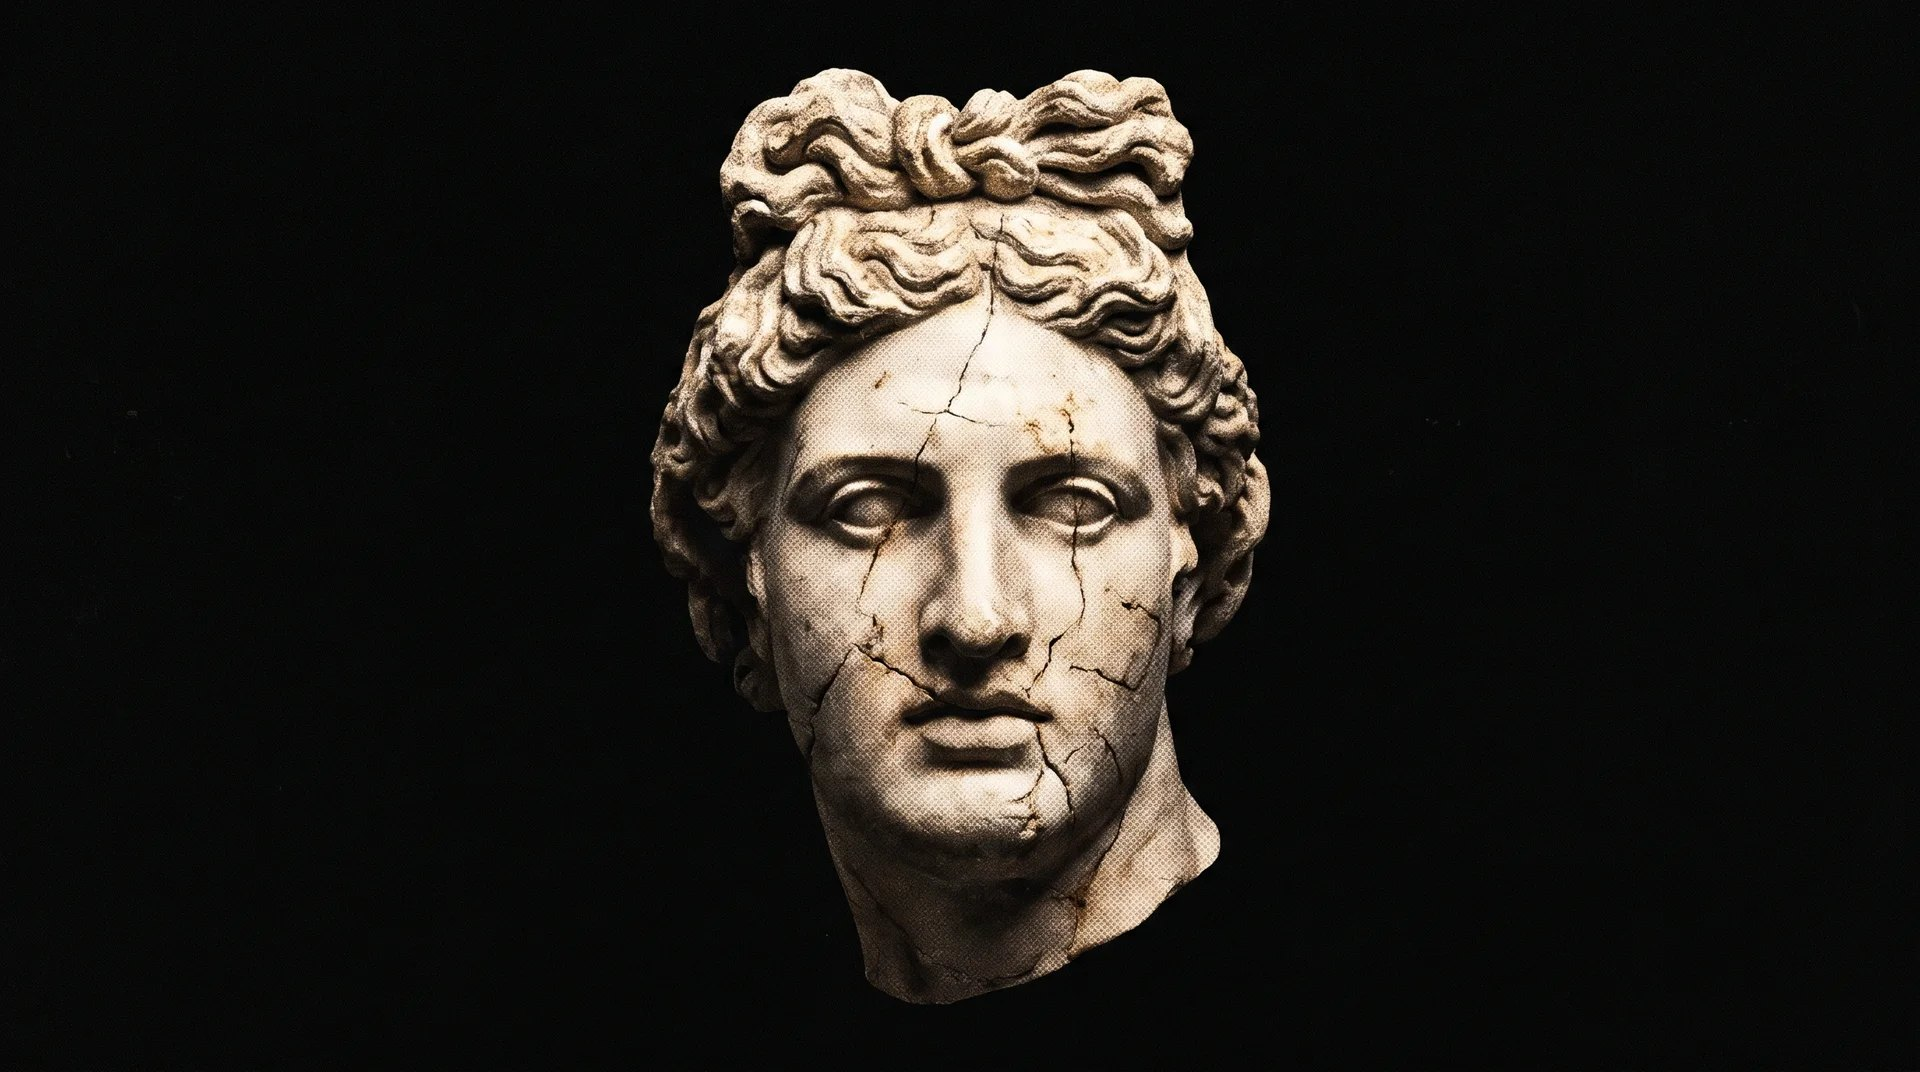
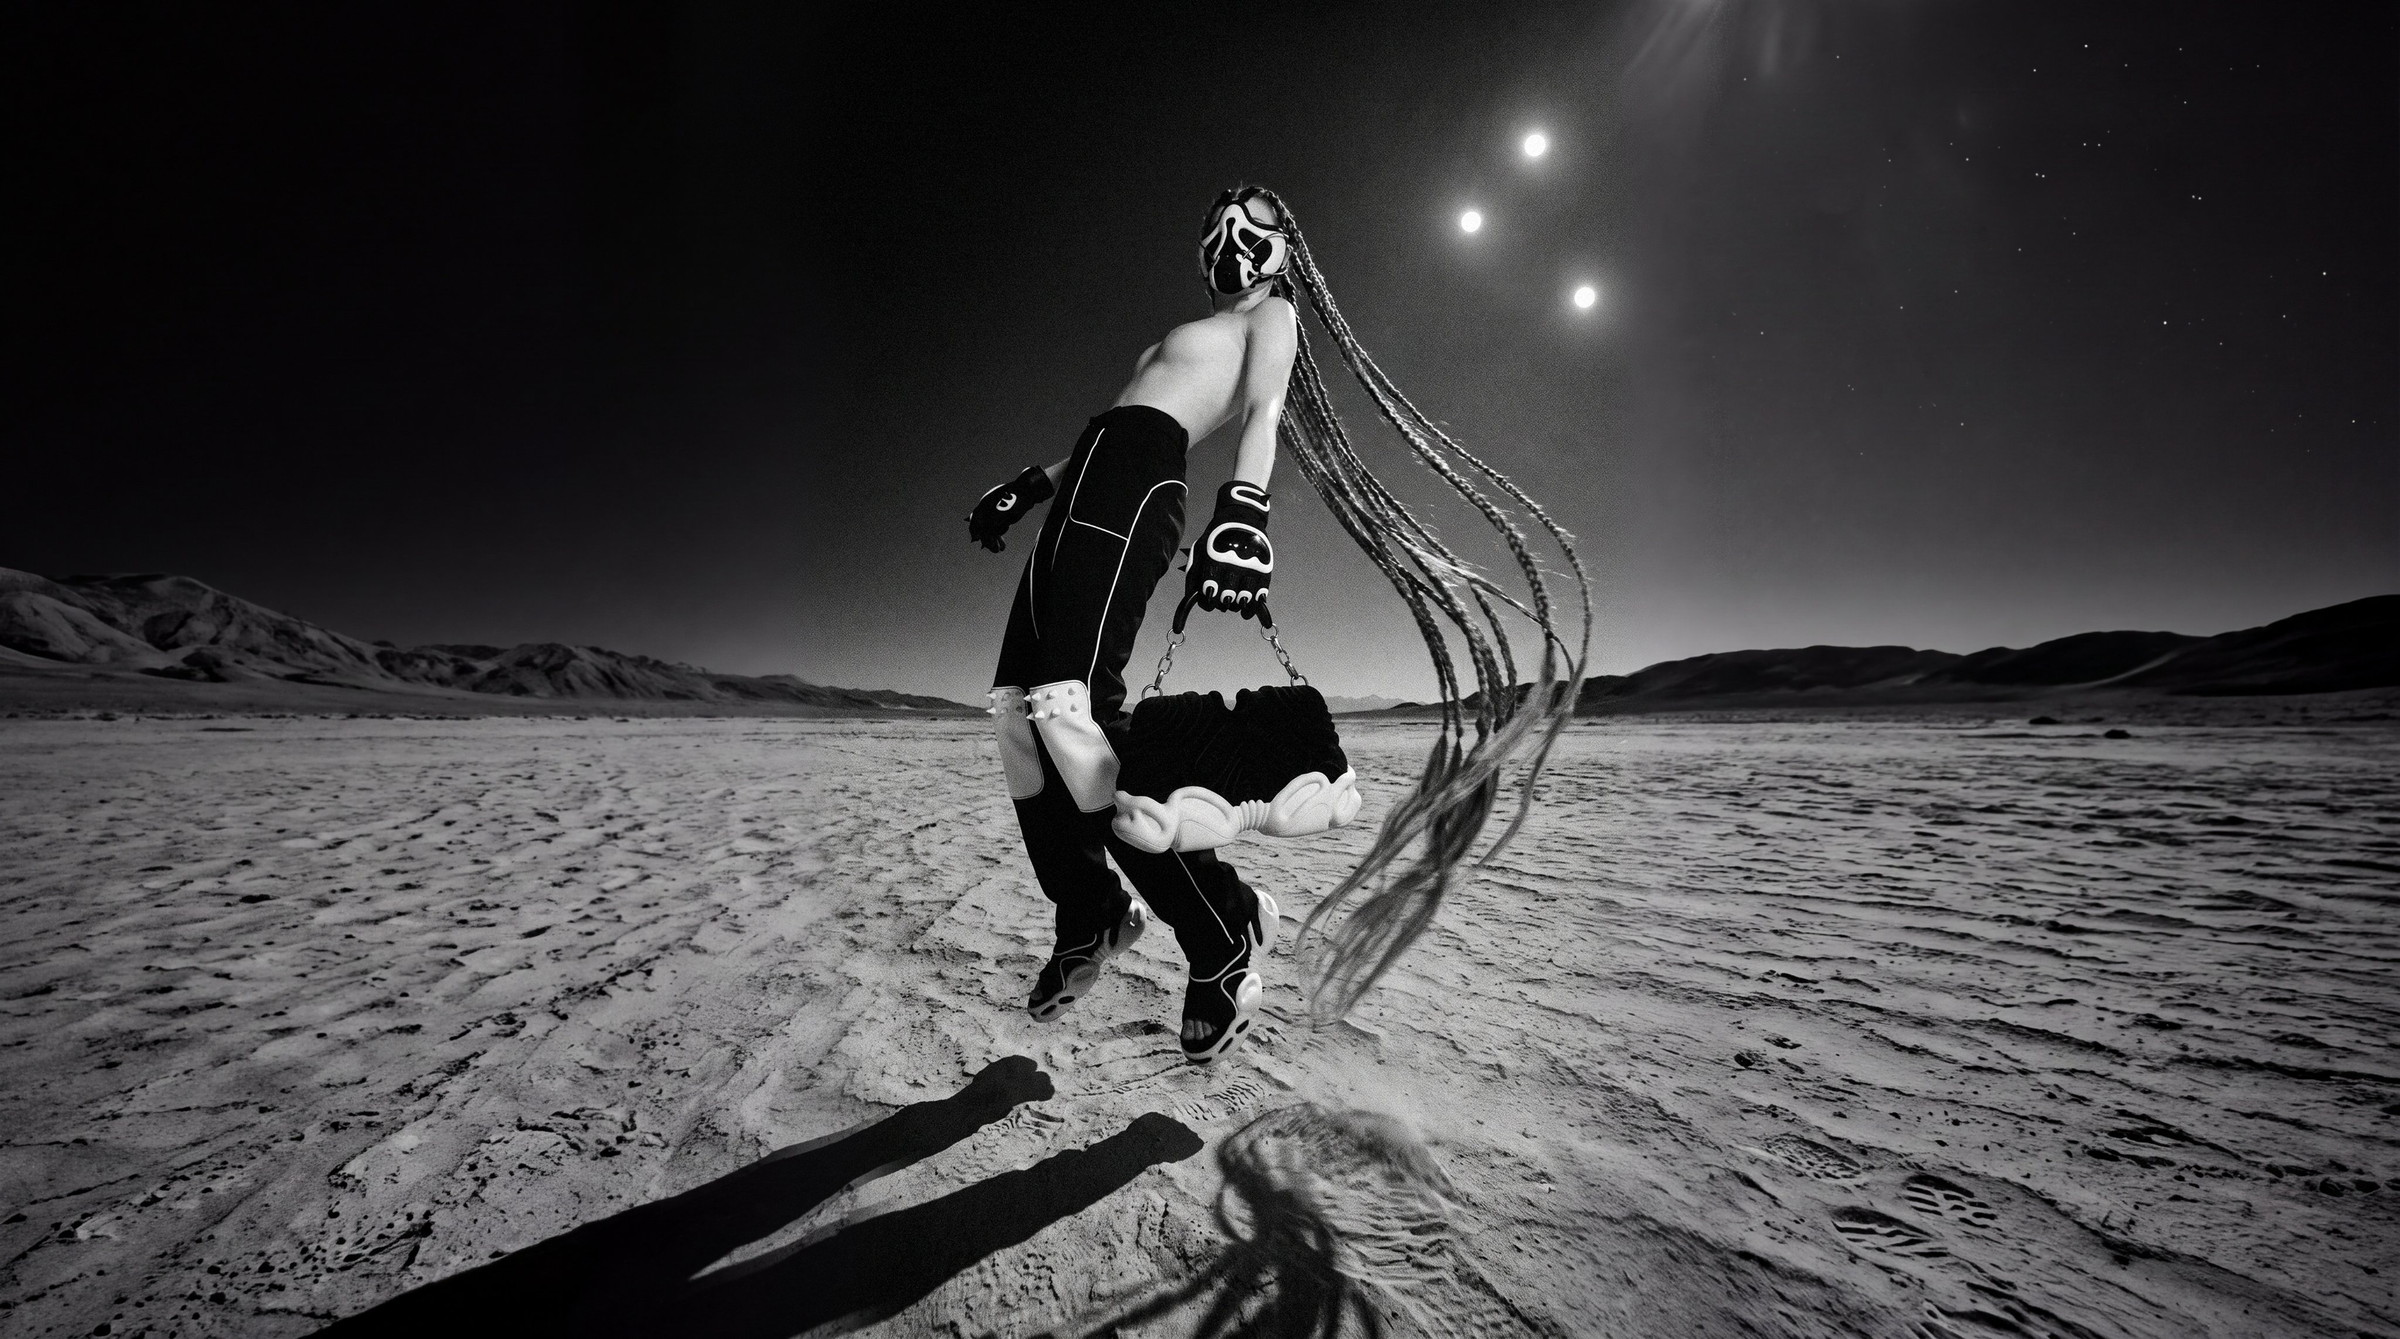
Nové projekty a doplnění galerií.
Bistro Za vodou, Pizza Speed a Antik Galerie Nostalgie. Doplněné fotky u edengarden*, Green Vision a Baru Ponorka. Nové pozadí hero.

diff --git a/src/data/projects.ts b/src/data/projects.ts
@@ -5,6 +5,8 @@ export type ProjectTone = "ph-01" | "ph-02" | "ph-03" | "ph-04" | "ph-05" | "ph-
 export type ProjectShot = {
   src: string;
   alt: string;
+  wide?: boolean;
+  center?: boolean;
 };
 
 export type Project = {
@@ -43,7 +45,12 @@ export const projects: Project[] = [
     tone: "ph-05",
     image: "/images/projects/ponorka.jpg",
     url: "https://www.barponorka.cz",
-    gallery: [],
+    gallery: [
+      { src: "/images/projects/ponorka/rockabilly-9.jpg", alt: "Plakát Rockabilly Fever vol. 9" },
+      { src: "/images/projects/ponorka/rockabilly-8.jpg", alt: "Plakát Rockabilly Fever vol. 8" },
+      { src: "/images/projects/ponorka/web.jpg", alt: "Web Bar Ponorka" },
+      { src: "/images/projects/ponorka/menu.jpg", alt: "Nápojový lístek na webu" },
+    ],
   },
   {
     slug: "kovovyroba-hrdlicka",
@@ -148,14 +155,18 @@ export const projects: Project[] = [
     body: [
       "Green Vision potřeboval sjednotit značku a web. Zadání: čitelný systém, který unese další výstupy.",
       "Identita je úzká — písmo, paleta, rytmus sazby. Web z ní vychází přímo, bez druhé vizuální vrstvy.",
-      "Výstupem je značka, základní tiskoviny a prezentační web.",
+      "Výstupem je značka, web, textil a venkovní banner.",
     ],
-    outputs: ["Identita", "Web", "Tisk"],
+    outputs: ["Identita", "Web", "Textil"],
     featured: true,
     tone: "ph-06",
     image: "/images/projects/green-vision-mark.jpg",
     url: "https://www.greenvision.cz",
-    gallery: [],
+    gallery: [
+      { src: "/images/projects/green-vision/merch.jpg", alt: "Textil Green Vision" },
+      { src: "/images/projects/green-vision/banner.jpg", alt: "Street banner Green Vision" },
+      { src: "/images/projects/green-vision/triko.jpg", alt: "Triko a čepice Green Vision" },
+    ],
   },
   {
     slug: "glide-edge",
@@ -184,13 +195,13 @@ export const projects: Project[] = [
     location: "Česko",
     year: "2026",
     category: "Obal",
-    excerpt: "Obal a produktové vizuály. Raspberry fusion, Blueberry fusion, Orange dreams.",
+    excerpt: "Obal, produktové vizuály a web.",
     body: [
-      "edengarden* potřeboval obal a klíčové vizuály pro Raspberry fusion, Blueberry fusion a Orange dreams.",
+      "edengarden* potřeboval obal, produktové vizuály a web.",
       "Sáček nese značku, název a obsah. Každá příchuť má vlastní barvu kouře a ovoce.",
-      "Výstupem je obal a produktová fotografie.",
+      "Stejný jazyk pokračuje na webu a na stojáncích v prodejně.",
     ],
-    outputs: ["Obal", "Produktový vizuál"],
+    outputs: ["Obal", "Web", "Produktový vizuál"],
     featured: false,
     tone: "ph-04",
     image: "/images/projects/edengarden/raspberry-fusion.jpg",
@@ -198,6 +209,102 @@ export const projects: Project[] = [
       { src: "/images/projects/edengarden/raspberry-fusion.jpg", alt: "edengarden* Raspberry fusion" },
       { src: "/images/projects/edengarden/blueberry-fusion.jpg", alt: "edengarden* Blueberry fusion" },
       { src: "/images/projects/edengarden/orange-dreams.jpg", alt: "edengarden* Orange dreams" },
+      { src: "/images/projects/edengarden/web-1.jpg", alt: "Web edengarden*" },
+      { src: "/images/projects/edengarden/web-2.jpg", alt: "Eshop edengarden*" },
+      { src: "/images/projects/edengarden/lollipop-kush.jpg", alt: "Stojánek Lollipop kush" },
+      { src: "/images/projects/edengarden/gorilla-glue.jpg", alt: "Stojánek Gorilla glue" },
+      { src: "/images/projects/edengarden/stojan-blueberry.jpg", alt: "Stojánek Blueberry fusion" },
+      { src: "/images/projects/edengarden/emerald-kush.jpg", alt: "Stojánek Emerald kush" },
+    ],
+  },
+  {
+    slug: "bistro-za-vodou",
+    title: "Bistro Za vodou",
+    client: "Bistro Za vodou",
+    location: "Česko",
+    year: "2024",
+    category: "Identita",
+    excerpt: "Značka bistra. Menu, textil a venkovní nosiče.",
+    body: [
+      "Bistro Za vodou potřebovalo značku, která drží pohromadě na menu, textilu i venku.",
+      "Značka je černobílá: slunce, hladina, hora. Nápojové lístky nesou barvu, jídelní lístek zůstává černý.",
+      "Výstupem je logo, menu, textil, samolepky a venkovní nosiče.",
+    ],
+    outputs: ["Identita", "Menu", "Tisk"],
+    featured: false,
+    tone: "ph-01",
+    image: "/images/projects/bistro-za-vodou/znacka.jpg",
+    gallery: [
+      {
+        src: "/images/projects/bistro-za-vodou/menu.jpg",
+        alt: "Jídelní a nápojový lístek Bistro Za vodou",
+        wide: true,
+      },
+      { src: "/images/projects/bistro-za-vodou/cocktaily.jpg", alt: "Lístek koktejlů" },
+      { src: "/images/projects/bistro-za-vodou/limonady.jpg", alt: "Lístek limonád" },
+      { src: "/images/projects/bistro-za-vodou/triko.jpg", alt: "Triko Bistro Za vodou" },
+      { src: "/images/projects/bistro-za-vodou/lehatko.jpg", alt: "Lehátko se značkou" },
+      { src: "/images/projects/bistro-za-vodou/podtacky.jpg", alt: "Podtácky Bistro Za vodou" },
+      { src: "/images/projects/bistro-za-vodou/samolepky.jpg", alt: "Samolepky s QR kódem" },
+      { src: "/images/projects/bistro-za-vodou/provozni-doba.jpg", alt: "Cedule provozní doby" },
+      { src: "/images/projects/bistro-za-vodou/vlajka.jpg", alt: "Beach vlajka Bistro Za vodou" },
+    ],
+  },
+  {
+    slug: "pizza-speed",
+    title: "Pizza Speed",
+    client: "Pizza Speed",
+    location: "Jablonec nad Nisou",
+    year: "2025",
+    category: "Identita",
+    excerpt: "Značka pizzerie. Poutač, leták, cedule a web.",
+    body: [
+      "Pizza Speed potřebovala značku pro provoz i pro web.",
+      "Systém je černý s oranžovou. Stejný jazyk drží poutač, leták, banner, cedule i dárkové poukazy.",
+      "Web z něj vychází přímo.",
+    ],
+    outputs: ["Identita", "Web", "Tisk"],
+    featured: false,
+    tone: "ph-05",
+    image: "/images/projects/pizza-speed/poutac.jpg",
+    url: "https://pizza-speed.vercel.app",
+    gallery: [
+      { src: "/images/projects/pizza-speed/poutac.jpg", alt: "Poutač Pizza Speed" },
+      { src: "/images/projects/pizza-speed/poukazy.jpg", alt: "Dárkové poukazy Pizza Speed" },
+      { src: "/images/projects/pizza-speed/terasa.jpg", alt: "Cedule terasy Pizza Speed" },
+      { src: "/images/projects/pizza-speed/pivo.jpg", alt: "Cedule piva na čepu" },
+      {
+        src: "/images/projects/pizza-speed/banner.jpg",
+        alt: "Banner Pizza Speed",
+        wide: true,
+      },
+      {
+        src: "/images/projects/pizza-speed/letak.jpg",
+        alt: "Leták na rozvoz Pizza Speed",
+        center: true,
+      },
+    ],
+  },
+  {
+    slug: "nostalgie",
+    title: "Antik Galerie Nostalgie",
+    client: "Antik Galerie Nostalgie",
+    location: "Jablonec nad Nisou",
+    year: "2026",
+    category: "Identita",
+    excerpt: "Identita antik galerie. Logo a vizitka.",
+    body: [
+      "Antik Galerie Nostalgie sídlí na Mírovém náměstí v Jablonci nad Nisou.",
+      "Značka drží bordó pole, kreslené písmo a výřez z obrazu.",
+      "Výstupem je logo a vizitka.",
+    ],
+    outputs: ["Identita", "Tisk"],
+    featured: false,
+    tone: "ph-02",
+    image: "/images/projects/nostalgie/vizitky.jpg",
+    url: "https://www.nostalgieantikgalerie.cz",
+    gallery: [
+      { src: "/images/projects/nostalgie/vizitky.jpg", alt: "Vizitky Antik Galerie Nostalgie" },
     ],
   },
 ];

diff --git a/src/routes/prace/$slug.tsx b/src/routes/prace/$slug.tsx
@@ -48,7 +48,7 @@ function ProjectPage() {
           </h1>
         </header>
 
-        {project.slug === "edengarden" ? null : (
+        {project.slug === "edengarden" || project.slug === "pizza-speed" || project.slug === "nostalgie" ? null : (
         <div className="page-grid">
           <figure className="img-frame overflow-hidden bg-bg-elevated">
             <img
@@ -115,11 +115,39 @@ function ProjectPage() {
         </section>
 
         {project.gallery.length > 0 ? (
+          project.slug === "edengarden" ? (
+            <>
+              <section className="page-grid project-gallery is-flavors">
+                {project.gallery.slice(0, 3).map((shot) => (
+                  <img
+                    key={shot.src}
+                    src={shot.src}
+                    alt={shot.alt}
+                    loading="lazy"
+                    decoding="async"
+                  />
+                ))}
+              </section>
+              <section className="page-grid project-gallery">
+                {project.gallery.slice(3).map((shot) => (
+                  <img
+                    key={shot.src}
+                    src={shot.src}
+                    alt={shot.alt}
+                    loading="lazy"
+                    decoding="async"
+                  />
+                ))}
+              </section>
+            </>
+          ) : (
           <section
             className={
-              project.slug === "edengarden"
-                ? "page-grid project-gallery is-flavors"
-                : "page-grid project-gallery"
+              project.slug === "bistro-za-vodou"
+                ? "page-grid project-gallery is-uniform"
+                : project.slug === "green-vision"
+                  ? "page-grid project-gallery is-trio"
+                  : "page-grid project-gallery"
             }
           >
             {project.gallery.map((shot) => (
@@ -127,11 +155,13 @@ function ProjectPage() {
                 key={shot.src}
                 src={shot.src}
                 alt={shot.alt}
+                className={shot.wide ? "is-wide" : shot.center ? "is-center" : undefined}
                 loading="lazy"
                 decoding="async"
               />
             ))}
           </section>
+          )
         ) : null}
 
         <section className="border-t border-line">

diff --git a/src/styles.css b/src/styles.css
@@ -561,7 +561,7 @@ html {
   width: 100%;
   height: 100%;
   object-fit: cover;
-  object-position: 58% center;
+  object-position: center center;
   filter: grayscale(1);
   pointer-events: none;
 }
@@ -655,8 +655,44 @@ html {
   width: 100%;
   height: auto;
 }
+.project-gallery img.is-wide {
+  grid-column: 1 / -1;
+}
+@media (min-width: 768px) {
+  .project-gallery img.is-center {
+    grid-column: 1 / -1;
+    width: calc(50% - 8px);
+    justify-self: center;
+  }
+}
+@media (min-width: 768px) {
+  .project-gallery:not(.is-flavors):has(> img:only-child) {
+    grid-template-columns: minmax(0, 760px);
+    justify-content: center;
+  }
+}
+.project-gallery.is-uniform img:not(.is-wide) {
+  aspect-ratio: 4 / 3;
+  object-fit: cover;
+}
+@media (min-width: 768px) {
+  .project-gallery.is-uniform img:nth-child(1) { order: 1; }
+  .project-gallery.is-uniform img:nth-child(4) { order: 2; }
+  .project-gallery.is-uniform img:nth-child(3) { order: 3; }
+  .project-gallery.is-uniform img:nth-child(2) { order: 4; }
+  .project-gallery.is-uniform img:nth-child(5) { order: 5; }
+  .project-gallery.is-uniform img:nth-child(6) { order: 6; }
+  .project-gallery.is-uniform img:nth-child(7) { order: 7; }
+  .project-gallery.is-uniform img:nth-child(9) { order: 8; }
+  .project-gallery.is-uniform img:nth-child(8) { order: 9; }
+}
 .project-gallery.is-flavors {
   grid-template-columns: repeat(3, minmax(0, 1fr));
+}
+@media (min-width: 768px) {
+  .project-gallery.is-trio {
+    grid-template-columns: repeat(3, minmax(0, 1fr));
+  }
 }
 @media (max-width: 767px) {
   .project-gallery {

diff --git a/src/components/home-page.tsx b/src/components/home-page.tsx
@@ -17,8 +17,8 @@ export function HomePage() {
           className="hero-still"
           src="/images/hero-bust.jpg"
           alt=""
-          width={1920}
-          height={1072}
+          width={2400}
+          height={1339}
         />
         <div className="page-grid hero-frame">
         <div className="hero-eyebrow">
@@ -55,7 +55,7 @@ export function HomePage() {
         <div className="section-bar">
           <span className="micro">01 / VYBRANÁ PRÁCE</span>
           <Link to="/prace" className="text-link">
-            Všechny projekty <span className="count">08</span>
+            Všechny projekty <span className="count">11</span>
             <ArrowUpRight size={16} />
           </Link>
         </div>
